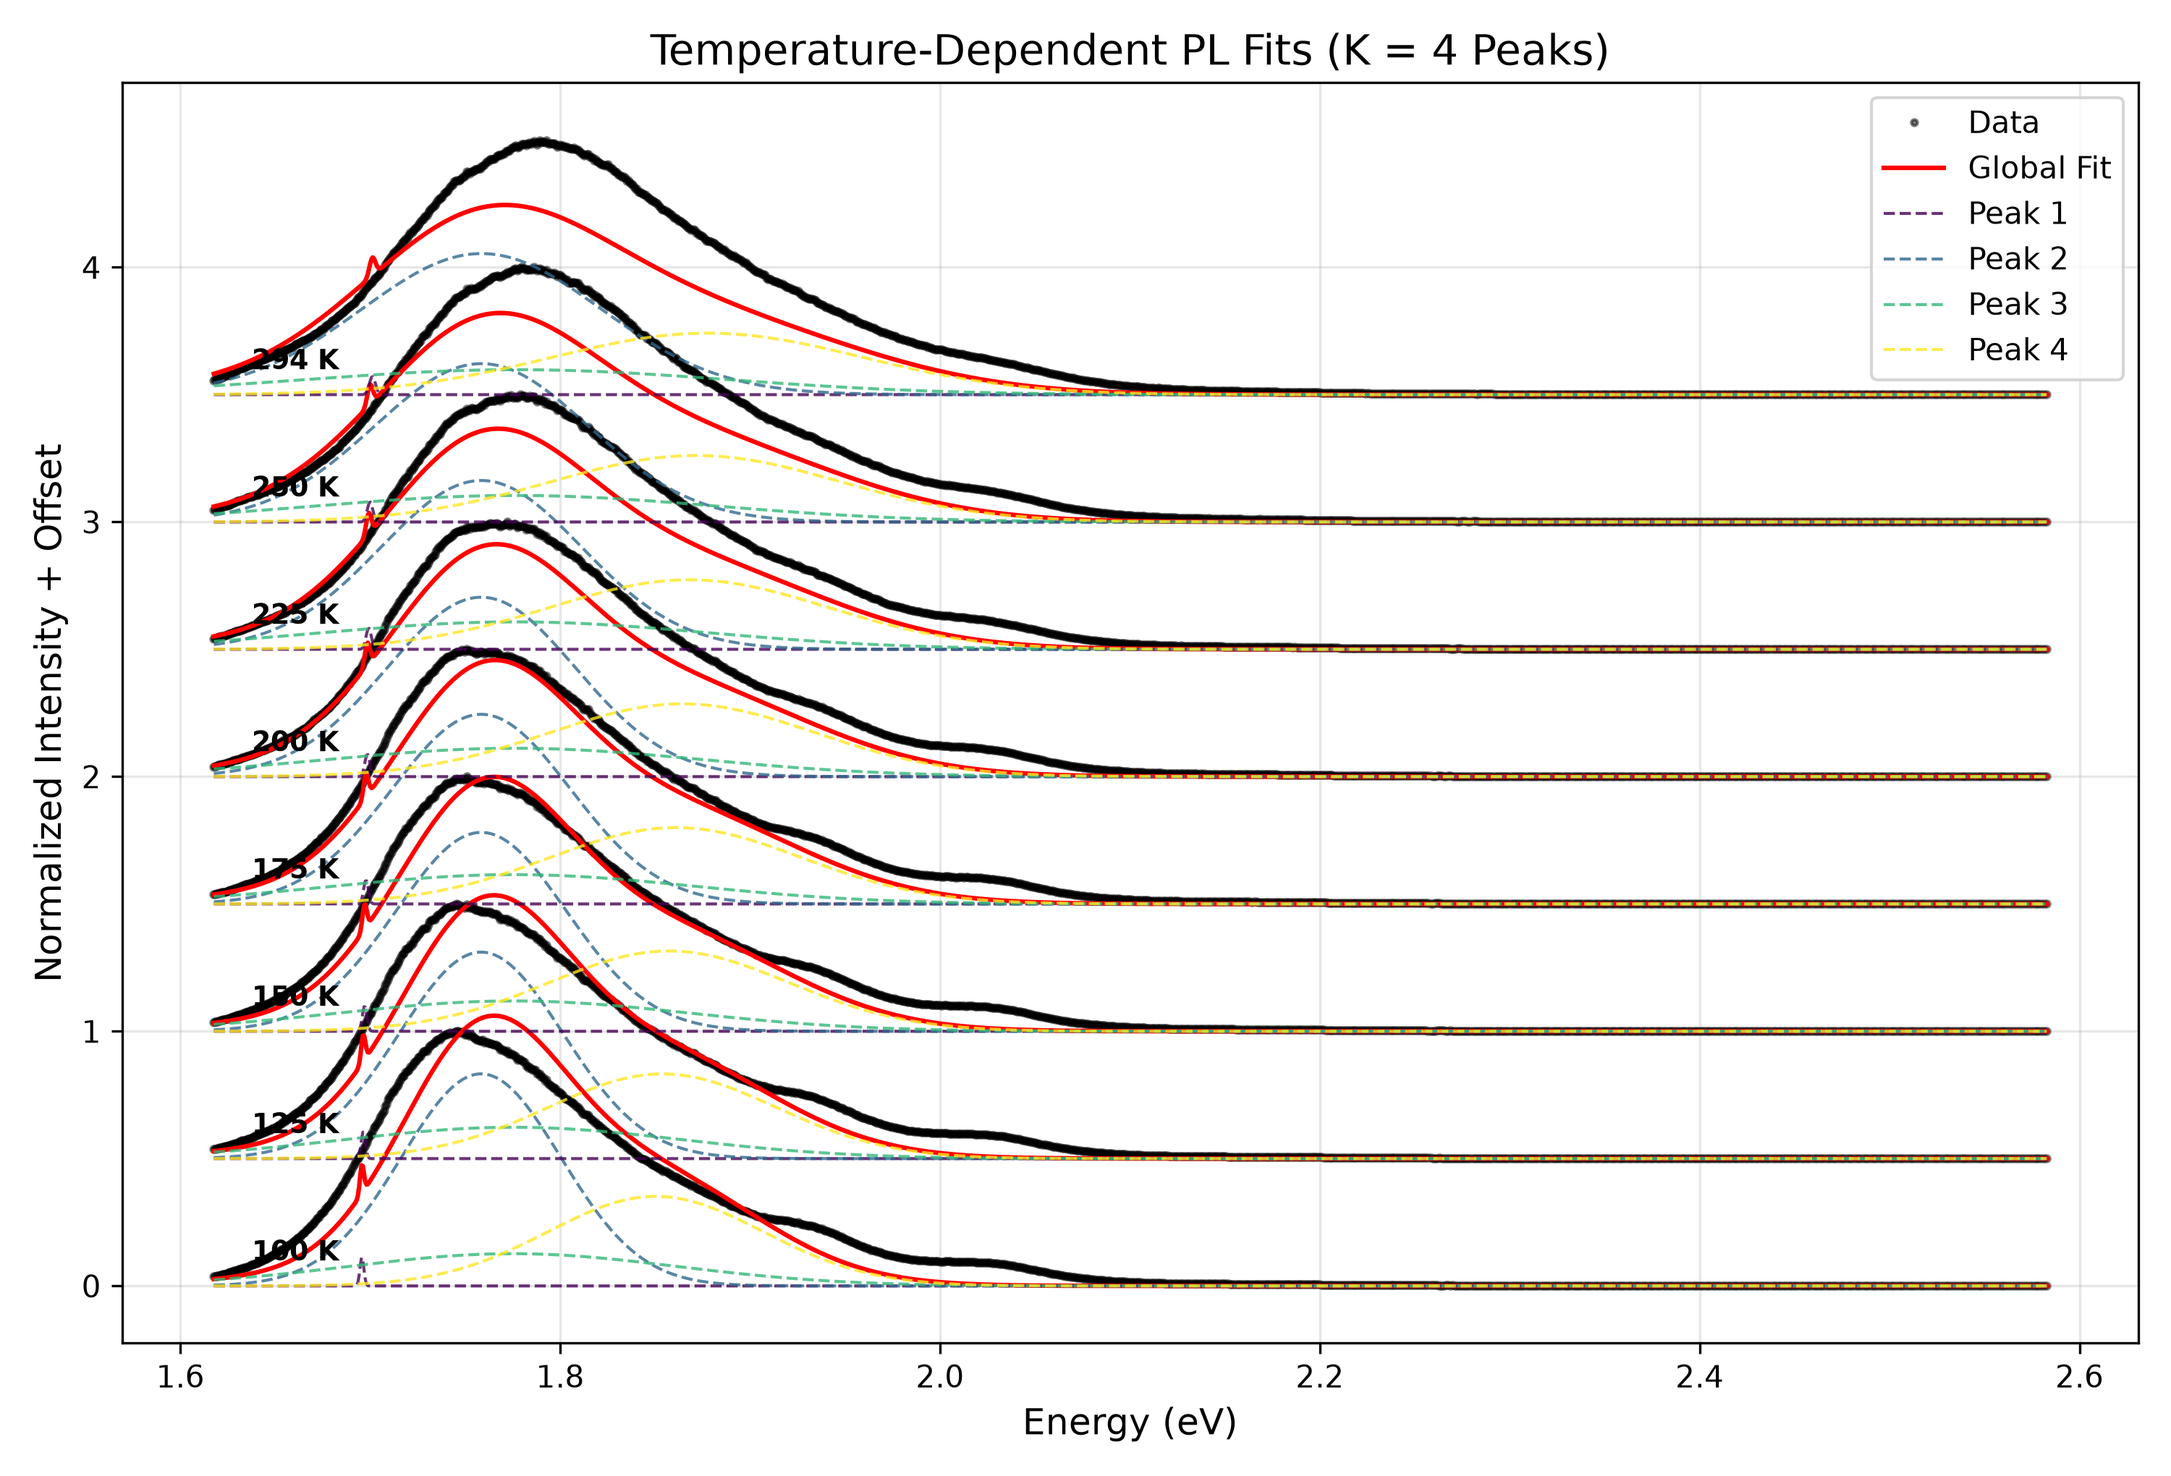
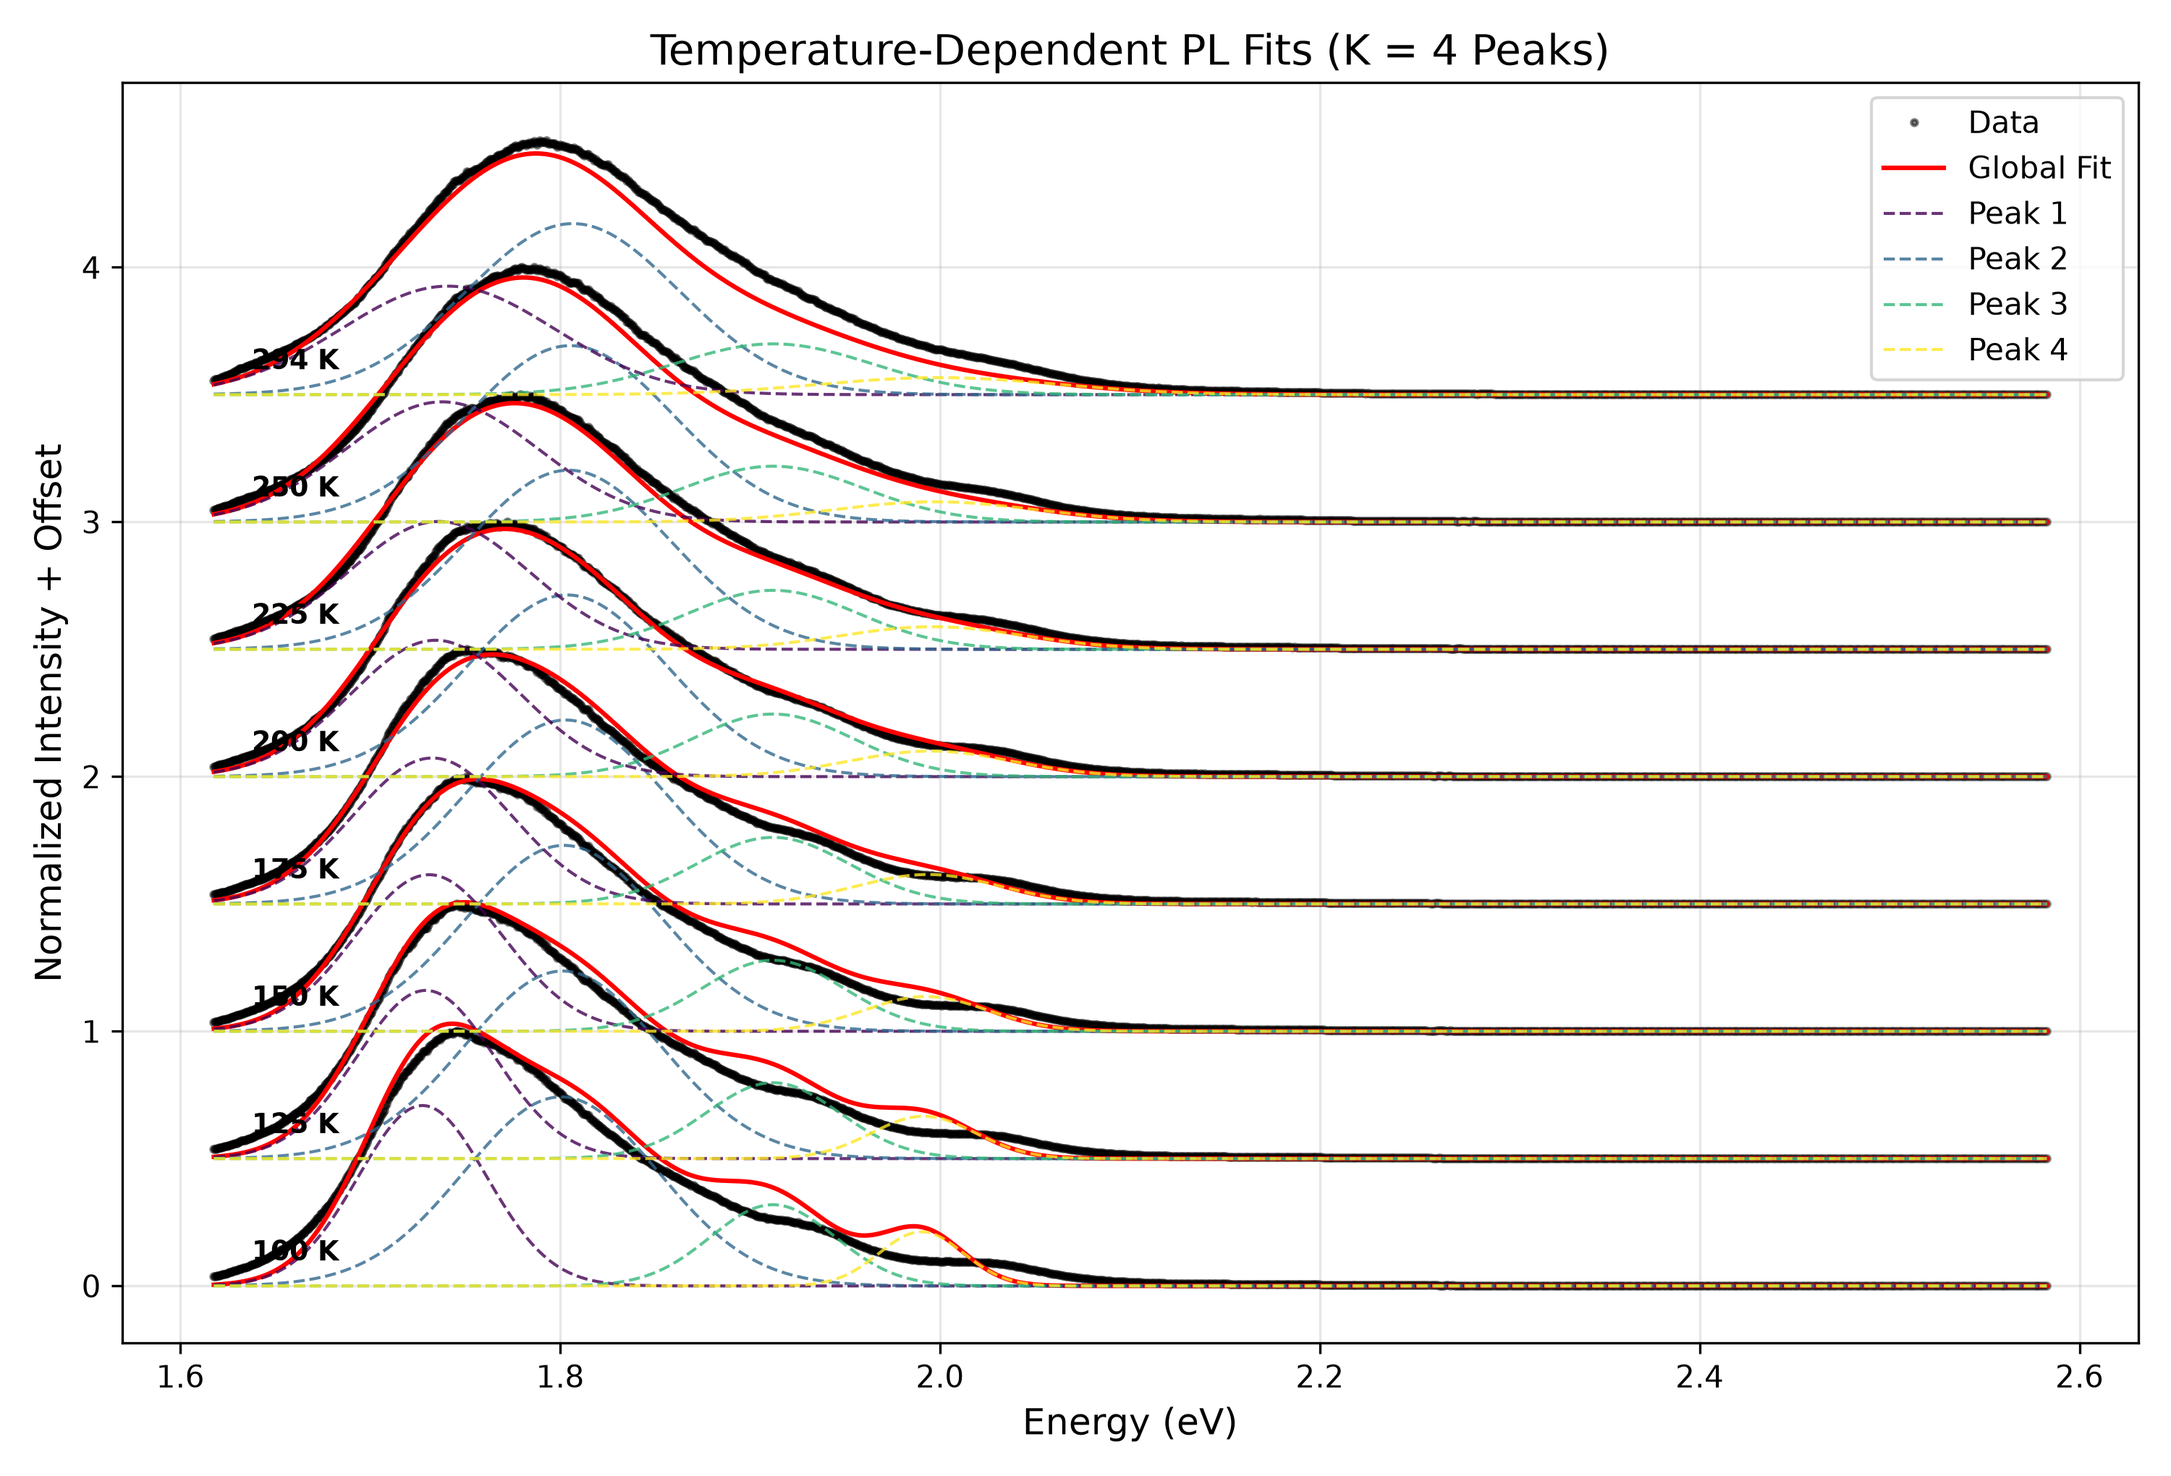
feat: fixing params

Changed region(s): [[0.093, 0.0926, 0.589, 0.8956]]

diff --git a/src/temp_dependent_pl_proccessing/bayesian_sampler.py b/src/temp_dependent_pl_proccessing/bayesian_sampler.py
@@ -16,66 +16,99 @@ from temp_dependent_pl_proccessing.physics import evaluate_composite_spectrum
 
 logger = logging.getLogger("pl_analysis.bayesian_sampler")
 
+KB_EV: float = 8.617333262145e-5  # Boltzmann constant in eV/K
+
 
 def log_prior(
     params: np.ndarray,
     num_peaks: int,
     absorption_centers: List[float],
-    center_window_ev: float = 0.015,  # Narrowed to 15 meV to prevent label switching
+    temperatures: List[float],
+    center_window_ev: float = 0.015,
+    max_fwhm_ev: float = 0.150,
+    min_energy_ev: float = 1.50,
+    max_energy_ev: float = 2.30,
 ) -> float:
-    """ Calculates joint log-prior probability density enforcing physical parameter domain boundaries, peak energy ordering, and anchored center priors.
+    """ Calculates joint log-prior probability density enforcing both global parameter bounds and temperature-evaluated spectral bounds.
     ------
-    OUTPUT - float: Natural log-prior probability density (returns -np.inf for unphysical or out-of-bound parameters).
+    OUTPUT - float: Natural log-prior probability density (-np.inf if global or single-T bounds are violated).
     ------
     params - np.ndarray: Joint model parameter vector of shape (9 * num_peaks + 1,).
-    num_peaks - int: Number of emission peaks comprising the composite physics model.
-    absorption_centers - List[float]: Expected peak center target energies in eV derived from absorption measurements.
-    sigma_center - float: Standard deviation in eV for Gaussian prior anchoring peak centers E0(0) to absorption targets (default: 0.015).
-    
+    num_peaks - int: Number of emission peaks fitted.
+    absorption_centers - List[float]: Target absorption peak centers in eV.
+    temperatures - List[float]: Array of experimental temperatures in Kelvin present in the dataset.
+    center_window_ev - float: Gaussian anchor standard deviation in eV for E0(0).
+    max_fwhm_ev - float: Maximum physical linewidth limit in eV at any individual temperature (default: 0.250 eV).
+    min_energy_ev - float: Lower detector/grid energy bound in eV (default: 1.20 eV).
+    max_energy_ev - float: Upper detector/grid energy bound in eV (default: 2.80 eV).
     """
-    expected_ndim = 9 * num_peaks + 1
-    if len(params) != expected_ndim:
+    if len(params) != 9 * num_peaks + 1:
         return -np.inf
 
     lp = 0.0
 
-    # Enforce strict peak energy ordering (Peak 1 < Peak 2 < Peak 3...)
+    # 1. Global energy ordering check at T = 0 K
     for k in range(num_peaks - 1):
-        e0_current = params[k * 9 + 7]
-        e0_next = params[(k + 1) * 9 + 7]
-        if e0_current >= e0_next:
+        if params[k * 9 + 7] >= params[(k + 1) * 9 + 7]:
             return -np.inf
 
-    # Per-peak parameter boundary checks and Gaussian center priors
+    # 2. Global parameter box bounds & Gaussian target priors
     for k in range(num_peaks):
         g0, g_ac, g_lo, e_lo, i0, a_fac, e_a, e0, alpha = params[k * 9 : (k + 1) * 9]
 
-        # Uniform physical domain boundaries
-        if not (0.001 <= g0 <= 1):
+        if not (0.001 <= g0 <= 0.150):
             return -np.inf
         if not (1e-6 <= g_ac <= 1e-2):
             return -np.inf
-        if not (0.001 <= g_lo <= 1):
+        if not (0.001 <= g_lo <= 0.200):
             return -np.inf
-        if not (0.005 <= e_lo <= 0.5):
+        if not (0.005 <= e_lo <= 0.080):
             return -np.inf
-        if not (1e-5 <= i0 <= 10.0):
+        if not (1e-4 <= i0 <= 5.0):
             return -np.inf
         if not (1e-3 <= a_fac <= 1e4):
             return -np.inf
-        if not (0.001 <= e_a <= 1):
+        if not (0.001 <= e_a <= 0.500):
             return -np.inf
         if not (1e-7 <= alpha <= 1e-3):
             return -np.inf
 
-        # Gaussian prior anchored near expected absorption center
         target_center = absorption_centers[k]
         lp += -0.5 * ((e0 - target_center) / center_window_ev) ** 2
 
-    # Log residual variance boundary check
     log_sigma = params[-1]
     if not (-10.0 <= log_sigma <= 2.0):
         return -np.inf
+
+    # 3. PER-TEMPERATURE BOUND EVALUATION across all experimental spectra
+    for t_val in temperatures:
+        for k in range(num_peaks):
+            g0, g_ac, g_lo, e_lo, i0, a_fac, e_a, e0, alpha = params[k * 9 : (k + 1) * 9]
+
+            # Evaluated peak center E_k(T)
+            e_t = e0 - alpha * t_val
+            if not (min_energy_ev <= e_t <= max_energy_ev):
+                return -np.inf
+
+            # Evaluated linewidth Gamma_k(T) via Segall formula
+            exp_term = np.exp(e_lo / (KB_EV * t_val)) - 1.0
+            gamma_t = g0 + g_ac * t_val + (g_lo / exp_term if exp_term > 0 else 0.0)
+
+            # Reject if evaluated FWHM is unphysically broad or negative at this temperature
+            if not (0.001 <= gamma_t <= max_fwhm_ev):
+                return -np.inf
+
+            # Evaluated intensity I_k(T) via Arrhenius quenching formula
+            i_t = i0 / (1.0 + a_fac * np.exp(-e_a / (KB_EV * t_val)))
+            if not (1e-6 <= i_t <= 10.0):
+                return -np.inf
+
+        # Optional: Enforce peak energy ordering at higher temperatures (prevents high-T peak crossover)
+        for k in range(num_peaks - 1):
+            e_curr_t = params[k * 9 + 7] - params[k * 9 + 8] * t_val
+            e_next_t = params[(k + 1) * 9 + 7] - params[(k + 1) * 9 + 8] * t_val
+            if e_curr_t >= e_next_t:
+                return -np.inf
 
     return lp
 
@@ -133,34 +166,55 @@ def log_likelihood(
     return float(total_log_like)
 
 
+# def log_posterior(
+#     params: np.ndarray,
+#     processed_series: List[Dict[str, Union[float, np.ndarray]]],
+#     num_peaks: int,
+#     absorption_centers: List[float],
+#     center_window_ev: float = 0.08,
+# ) -> float:
+#     """ Computes the total log-posterior probability density by summing log-prior and joint log-likelihood.
+#     ------
+#     OUTPUT - float: Calculated unnormalized log-posterior probability density.
+#     ------
+#     params - np.ndarray: Flat parameter vector of length (9 * num_peaks + 1).
+#     processed_series - List[Dict[str, Union[float, np.ndarray]]]: List of processed dataset dicts.
+#     num_peaks - int: Number of peaks comprising the model.
+#     absorption_centers - List[float]: Initial peak center energy estimates in eV.
+#     center_window_ev - float: Maximum allowed peak center shift window (default: 0.15 eV).
+#     ------
+#     ValueError: Raised if parameter dimensions or series inputs are invalid.
+#     """
+#     lp = log_prior(params, num_peaks, absorption_centers, center_window_ev=center_window_ev)
+#     if not np.isfinite(lp):
+#         return -np.inf
+
+#     ll = log_likelihood(params, processed_series, num_peaks)
+#     if not np.isfinite(ll):
+#         return -np.inf
+
+#     return float(lp + ll)
+
+
 def log_posterior(
     params: np.ndarray,
-    processed_series: List[Dict[str, Union[float, np.ndarray]]],
+    processed_series: List[Dict],
     num_peaks: int,
     absorption_centers: List[float],
-    center_window_ev: float = 0.08,
 ) -> float:
-    """ Computes the total log-posterior probability density by summing log-prior and joint log-likelihood.
-    ------
-    OUTPUT - float: Calculated unnormalized log-posterior probability density.
-    ------
-    params - np.ndarray: Flat parameter vector of length (9 * num_peaks + 1).
-    processed_series - List[Dict[str, Union[float, np.ndarray]]]: List of processed dataset dicts.
-    num_peaks - int: Number of peaks comprising the model.
-    absorption_centers - List[float]: Initial peak center energy estimates in eV.
-    center_window_ev - float: Maximum allowed peak center shift window (default: 0.15 eV).
-    ------
-    ValueError: Raised if parameter dimensions or series inputs are invalid.
-    """
-    lp = log_prior(params, num_peaks, absorption_centers, center_window_ev=center_window_ev)
+    # Extract temperature values from processed dataset list
+    temperatures = [entry["temperature"] for entry in processed_series]
+
+    lp = log_prior(
+        params,
+        num_peaks=num_peaks,
+        absorption_centers=absorption_centers,
+        temperatures=temperatures,
+    )
     if not np.isfinite(lp):
         return -np.inf
 
-    ll = log_likelihood(params, processed_series, num_peaks)
-    if not np.isfinite(ll):
-        return -np.inf
-
-    return float(lp + ll)
+    return lp + log_likelihood(params, processed_series, num_peaks)
 
 
 DEFAULT_PEAK_GUESSES: Dict[str, float] = {
@@ -179,25 +233,25 @@ def initialize_walker_positions(
     num_walkers: int,
     num_peaks: int,
     absorption_centers: List[float],
+    temperatures: List[float],
     custom_peak_guesses: Optional[List[Dict[str, float]]] = None,
     log_sigma_guess: float = -3.0,
     jitter_std: float = 1e-4,
 ) -> np.ndarray:
-    """ Generates initial parameter walker starting positions using configurable parameter guesses with Gaussian jitter.
+    """ Generates parameter walker starting positions, resampling any walker that violates global or per-temperature physical prior bounds.
     ------
     OUTPUT - np.ndarray: Walker starting array of shape (num_walkers, 9 * num_peaks + 1).
     ------
     num_walkers - int: Total number of ensemble MCMC walkers.
     num_peaks - int: Number of peaks comprising the model.
     absorption_centers - List[float]: Absorption peak center estimates in eV.
-    custom_peak_guesses - Optional[List[Dict[str, float]]]: Optional list of dicts specifying per-peak initial guesses.
+    temperatures - List[float]: Experimental temperature series values in Kelvin.
+    custom_peak_guesses - Optional[List[Dict[str, float]]]: Per-peak initial parameter guesses.
     log_sigma_guess - float: Initial guess for log residual noise variance (default: -3.0).
-    jitter_std - float: Relative standard deviation of Gaussian noise jitter applied to initial parameters.
+    jitter_std - float: Relative standard deviation of Gaussian noise jitter applied to initial parameters (default: 1e-4).
     ------
     ValueError: Raised if num_walkers is less than twice parameter dimensions or custom_peak_guesses length doesn't match num_peaks.
     """
-
-
     ndim = 9 * num_peaks + 1
     min_walkers = 2 * ndim
     if num_walkers < min_walkers:
@@ -218,6 +272,7 @@ def initialize_walker_positions(
         )
         raise ValueError("Length of custom_peak_guesses must equal num_peaks.")
 
+    # 1. Build initial parameter vector guess
     base_guess: List[float] = []
     for k in range(num_peaks):
         peak_dict = (
@@ -226,37 +281,39 @@ def initialize_walker_positions(
             else DEFAULT_PEAK_GUESSES
         )
 
-        gamma_0 = peak_dict.get("gamma_0", DEFAULT_PEAK_GUESSES["gamma_0"])
-        gamma_ac = peak_dict.get("gamma_ac", DEFAULT_PEAK_GUESSES["gamma_ac"])
-        gamma_lo = peak_dict.get("gamma_lo", DEFAULT_PEAK_GUESSES["gamma_lo"])
-        e_lo = peak_dict.get("e_lo", DEFAULT_PEAK_GUESSES["e_lo"])
-        i_0 = peak_dict.get("i_0", DEFAULT_PEAK_GUESSES["i_0"])
-        a_factor = peak_dict.get("a_factor", DEFAULT_PEAK_GUESSES["a_factor"])
-        e_a = peak_dict.get("e_a", DEFAULT_PEAK_GUESSES["e_a"])
-        alpha_coeff = peak_dict.get("alpha_coeff", DEFAULT_PEAK_GUESSES["alpha_coeff"])
-
         base_guess.extend([
-            gamma_0,
-            gamma_ac,
-            gamma_lo,
-            e_lo,
-            i_0,
-            a_factor,
-            e_a,
+            peak_dict.get("gamma_0", DEFAULT_PEAK_GUESSES["gamma_0"]),
+            peak_dict.get("gamma_ac", DEFAULT_PEAK_GUESSES["gamma_ac"]),
+            peak_dict.get("gamma_lo", DEFAULT_PEAK_GUESSES["gamma_lo"]),
+            peak_dict.get("e_lo", DEFAULT_PEAK_GUESSES["e_lo"]),
+            peak_dict.get("i_0", DEFAULT_PEAK_GUESSES["i_0"]),
+            peak_dict.get("a_factor", DEFAULT_PEAK_GUESSES["a_factor"]),
+            peak_dict.get("e_a", DEFAULT_PEAK_GUESSES["e_a"]),
             absorption_centers[k],
-            alpha_coeff,
+            peak_dict.get("alpha_coeff", DEFAULT_PEAK_GUESSES["alpha_coeff"]),
         ])
 
     base_guess.append(log_sigma_guess)
-
     initial_pos = np.array(base_guess, dtype=np.float64)
-    walker_positions = initial_pos + jitter_std * np.random.randn(num_walkers, ndim) * np.abs(initial_pos)
 
+    # 2. Populate walker array with prior validation
+    walker_positions = np.zeros((num_walkers, ndim), dtype=np.float64)
 
     for i in range(num_walkers):
-        while not np.isfinite(log_prior(walker_positions[i], num_peaks, absorption_centers)):
-            # walker_positions[i] = initial_pos + jitter_std * np.random.randn(ndim) * np.abs(initial_pos)
-            walker_positions[i] = initial_pos + 1e-4 * np.random.randn(ndim) * np.abs(initial_pos)
+        candidate_pos = initial_pos + jitter_std * np.random.randn(ndim) * np.abs(initial_pos)
+        
+        attempts = 0
+        max_attempts = 10000
+        # Check against updated log_prior signature including temperatures
+        while not np.isfinite(log_prior(candidate_pos, num_peaks, absorption_centers, temperatures)):
+            candidate_pos = initial_pos + jitter_std * np.random.randn(ndim) * np.abs(initial_pos)
+            attempts += 1
+            if attempts > max_attempts:
+                logger.warning("Walker %d failed to sample valid prior state after %d attempts; using base guess.", i, max_attempts)
+                candidate_pos = initial_pos.copy()
+                break
+
+        walker_positions[i] = candidate_pos
 
     logger.info("Initialized %d walkers for %d dimensions (%d peaks)", num_walkers, ndim, num_peaks)
     return walker_positions
@@ -291,13 +348,17 @@ def run_mcmc_sampling(
         logger.error("n_steps (%d) must exceed burn_in (%d)", n_steps, burn_in)
         raise ValueError("n_steps must be strictly greater than burn_in steps.")
 
-    ndim = 9 * num_peaks + 1
+    ndim = 9 * num_peaks + 1# Extract unique dataset temperatures
+    temperatures = [entry["temperature"] for entry in processed_series]
+
+# Pass temperatures to walker initialization
     init_positions = initialize_walker_positions(
-        n_walkers,
-        num_peaks,
-        absorption_centers,
-        custom_peak_guesses=custom_peak_guesses,
-    )
+    n_walkers,
+    num_peaks,
+    absorption_centers,
+    temperatures=temperatures,
+    custom_peak_guesses=custom_peak_guesses,
+)
     log_prob_args = (processed_series, num_peaks, absorption_centers)
 
     logger.info(

diff --git a/src/temp_dependent_pl_proccessing/main.py b/src/temp_dependent_pl_proccessing/main.py
@@ -263,7 +263,7 @@ if __name__ == "__main__":
         test_additional_peak=True,
         output_dir="results",
         n_walkers=200,
-        n_steps=10000,
-        burn_in=3000,
+        n_steps=20000,
+        burn_in=6000,
         use_parallel=True,
     )
